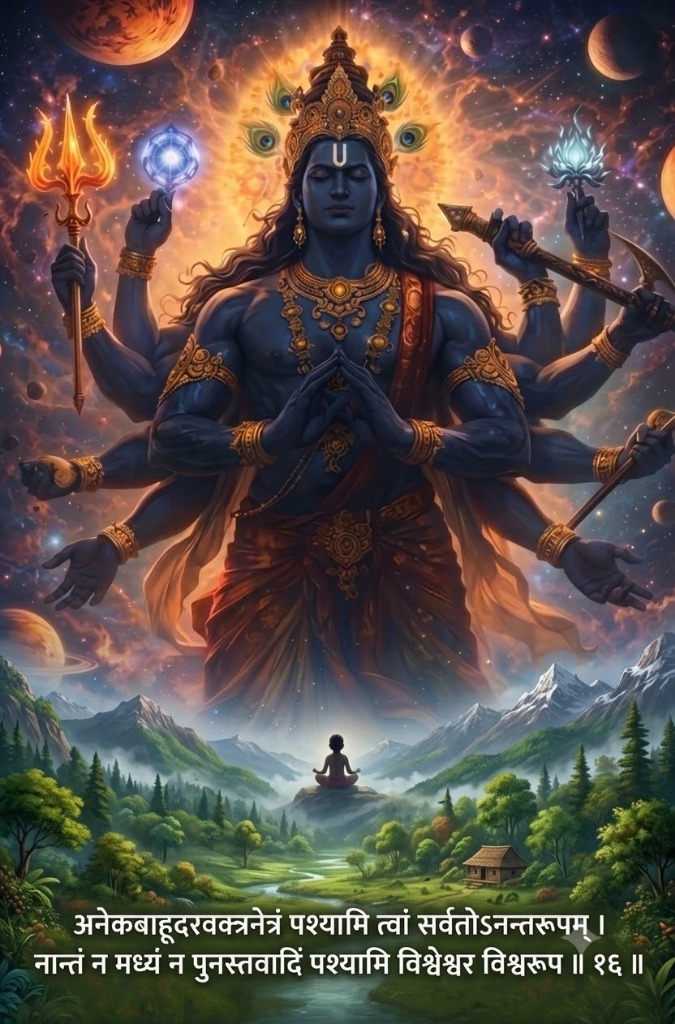
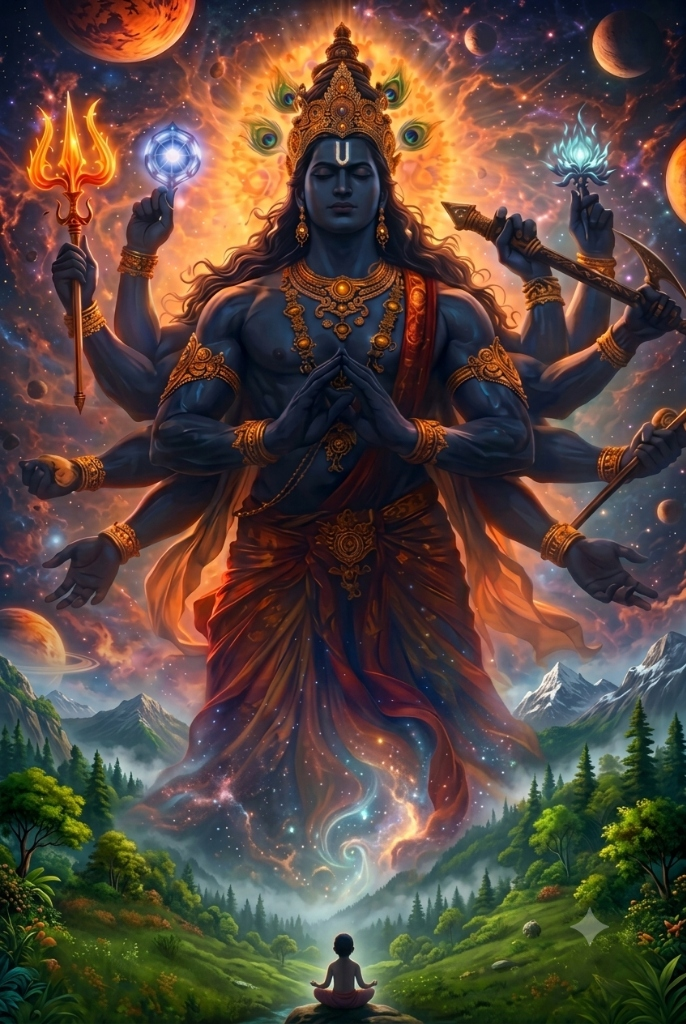
feat: update intro screen with new sacred Narayana artwork and remove shloka

diff --git a/src/components/ui/NarayanaEntryScreen.tsx b/src/components/ui/NarayanaEntryScreen.tsx
@@ -78,17 +78,6 @@ export const NarayanaEntryScreen: React.FC<NarayanaEntryScreenProps> = ({
           <Text style={styles.taglineSub}>Dedicated to Narayana</Text>
         </View>
 
-        {/* Shloka */}
-        <View style={styles.shlokaBox}>
-          <Text style={styles.shlokaLine}>
-            अनेकबाहूदरवक्त्रनेत्रं पश्यामि त्वां सर्वतोऽनन्तरूपम् ।
-          </Text>
-          <Text style={styles.shlokaLine}>
-            नान्तं न मध्यं न पुनस्तवादिं पश्यामि विश्वेश्वर विश्वरूप ॥
-          </Text>
-          <Text style={styles.shlokaRef}>— श्रीमद्भगवद्गीता ११.१६</Text>
-        </View>
-
         {/* Entry Status / Tap Prompt */}
         <View style={styles.footerPrompt}>
           {!isReady ? (
@@ -172,30 +161,6 @@ const styles = StyleSheet.create({
     fontWeight: '500',
     letterSpacing: 0.8,
     marginTop: 2,
-  },
-  shlokaBox: {
-    backgroundColor: 'rgba(15, 23, 42, 0.75)',
-    borderWidth: 1,
-    borderColor: 'rgba(251, 191, 36, 0.25)',
-    borderRadius: BorderRadius.lg,
-    paddingVertical: Spacing.md,
-    paddingHorizontal: Spacing.lg,
-    alignItems: 'center',
-    marginBottom: Spacing.xl,
-  },
-  shlokaLine: {
-    color: '#E2E8F0',
-    fontSize: 12.5,
-    lineHeight: 20,
-    textAlign: 'center',
-    fontWeight: '600',
-  },
-  shlokaRef: {
-    color: '#FBBF24',
-    fontSize: 10.5,
-    fontWeight: '700',
-    marginTop: 6,
-    letterSpacing: 0.6,
   },
   footerPrompt: {
     marginTop: Spacing.md,
